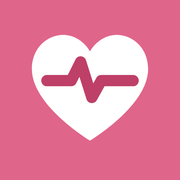
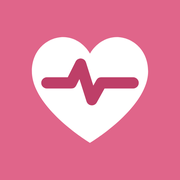
Add files via upload

diff --git a/index.html b/index.html
@@ -140,6 +140,12 @@
 [data-theme="dark"] .tl-item::before {
   background: var(--bg);
 }
+[data-theme="dark"] .award {
+  background: linear-gradient(135deg, var(--surface), var(--surface-blush));
+}
+[data-theme="dark"] .clink:hover {
+  color: #be3f68;
+}
 [data-theme="dark"] .tag:hover {
   background: #c64b76;
   color: #fff;
@@ -1299,7 +1305,7 @@ footer.foot {
 <header class="nav" id="nav">
   <div class="wrap nav-inner">
     <a href="#top" class="brand">
-      <span class="mono" aria-hidden="true"><svg viewBox="0 0 48 48"><path d="M24 37.5C24 37.5 8.5 28.2 8.5 18.4C8.5 12.8 12.6 9.3 16.9 9.3C19.8 9.3 22.5 11.1 24 13.7C25.5 11.1 28.2 9.3 31.1 9.3C35.4 9.3 39.5 12.8 39.5 18.4C39.5 28.2 24 37.5 24 37.5Z" fill="#fff"/><path d="M12.5 21.5H19L21.5 16.5L24.5 26L27 21.5H35.5" fill="none" stroke="#BE3F68" stroke-width="2.4" stroke-linecap="round" stroke-linejoin="round"/></svg></span>
+      <span class="mono" aria-hidden="true"><svg viewBox="0 0 48 48"><g transform="translate(0 0.6)"><path d="M24 37.5C24 37.5 8.5 28.2 8.5 18.4C8.5 12.8 12.6 9.3 16.9 9.3C19.8 9.3 22.5 11.1 24 13.7C25.5 11.1 28.2 9.3 31.1 9.3C35.4 9.3 39.5 12.8 39.5 18.4C39.5 28.2 24 37.5 24 37.5Z" fill="#fff"/><path d="M12.5 21.5H19L21.5 16.5L24.5 26L27 21.5H35.5" fill="none" stroke="#BE3F68" stroke-width="2.4" stroke-linecap="round" stroke-linejoin="round"/></g></svg></span>
       Pei-Iun Hsieh <span class="zh">謝佩芸</span>
     </a>
     <div class="nav-right">
@@ -1963,13 +1969,14 @@ sections.forEach((s) => spy.observe(s));
         try { localStorage.setItem('theme', next); } catch (e) {}
       });
     }
+    // Always follow the device when its light/dark setting changes
+    // (a device change overrides and forgets any manual toggle choice).
     try {
       matchMedia('(prefers-color-scheme: dark)').addEventListener('change', function (e) {
-        if (!localStorage.getItem('theme')) {
-          var m = e.matches ? 'dark' : 'light';
-          root.setAttribute('data-theme', m);
-          sync(m);
-        }
+        var m = e.matches ? 'dark' : 'light';
+        try { localStorage.removeItem('theme'); } catch (e2) {}
+        root.setAttribute('data-theme', m);
+        sync(m);
       });
     } catch (e) {}
   })();